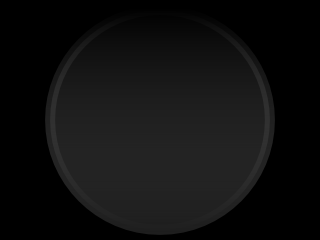
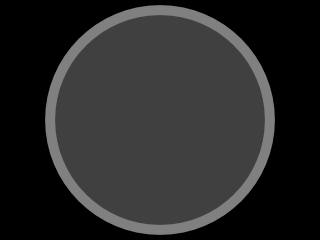
Lots o improvements from drive test. Fixed O2 sensors.

diff --git a/elmmonitor.py b/elmmonitor.py
@@ -53,7 +53,7 @@ class OBD_Capture():
     }
     o2pids = [ _O2B1S1, _O2B1S2, _O2B2S1, _O2B2S2, ]
 
-    scanpids = [ _MAP, _RPM, _SPEED, _TIMING, _IAT, _MAF,  _TPS ]
+    scanpids = [  _SPEED, _RPM, _IAT, _COOLTEMP, _LOAD, _TIMING,  _MAF, _MAP, _TPS ]
 
     def __init__(self):
         self.port = None
@@ -71,7 +71,7 @@ class OBD_Capture():
 
     def connect(self):
         #self.port = obd_io.OBDPort('/dev/pts/{0}'.format(portnumber), None, 2, 2)
-        portnames = ['/dev/obd0', '/dev/obd1', '/dev/pts/2', '/dev/pts/3', '/dev/pts/1', '/dev/pts/9']
+        portnames = ['/dev/obd0', '/dev/obd1', '/dev/pts/2', '/dev/pts/3', '/dev/pts/4', '/dev/pts/1', '/dev/pts/9']
 
 
         for port in portnames:
@@ -91,24 +91,6 @@ class OBD_Capture():
     def is_connected(self):
         return self.port
 
-
-
-    def o2scan(self):
-        outputs = ['', '']
-
-        try:
-            for pid in enumerate(self.o2pids):
-                (name, self.o2vals[pid[0]], unit) = self.port.sensor(pid[1])
-
-            outputs[0] = "1 S1:{0:.1f} S2:{1:.1f}".format(self.o2vals[0], self.o2vals[1])
-            outputs[1] = "2 S1:{0:.1f} S2:{1:.1f}".format(self.o2vals[2], self.o2vals[3])
-
-            time.sleep(0.1)
-            self.renderoutput(outputs, self.lcd._YELLOW)
-
-        except:
-            print "Error in o2scan.."
-            raise
 
     def milage(self):
         outputs = ['', '']
@@ -212,6 +194,9 @@ class OBD_Capture():
             raise
 
 class Gauges(object):
+    UPEVENT = 1
+    DOWNEVENT = 2
+
     def __init__(self, obd, adxl):
         self.obd = obd
         self.adxl345 = adxl
@@ -226,6 +211,7 @@ class Gauges(object):
         self._hugger = (245, 124, 51)
 
         self.face = pygame.image.load('gauges/bg.png')
+        self.scanpidindex = 0
 
     def gtoc(self, gpoint):
         return ( int(  (gpoint[0]/2.0)*100  )+160, int(  (gpoint[1]/2.0)*100  )+120 )
@@ -233,12 +219,12 @@ class Gauges(object):
     def o2toc(self, voltage):
         return int( ( 1.275 - voltage ) * (240/1.275) )
 
-    def o2graph(self):
+    def o2graph(self, event=None):
         (name, value1, unit) = self.obd.port.sensor(self.obd._O2B1S1)
         (name, value2, unit) = self.obd.port.sensor(self.obd._O2B1S2)
 
-        self.o2b1s1list.append(self.o2toc(value1))
-        self.o2b1s2list.append(self.o2toc(value2))
+        self.o2b1s1list.append(self.o2toc(value1[0]))
+        self.o2b1s2list.append(self.o2toc(value2[0]))
 
         background = pygame.Surface(screen.get_size())
         background = background.convert()
@@ -253,7 +239,7 @@ class Gauges(object):
         pygame.display.flip()
 
 
-    def gmeter(self):
+    def gmeter(self, event=None):
         outputs = ['','']
         axes = self.adxl345.getAxes(True)
         y = axes['z']
@@ -272,8 +258,14 @@ class Gauges(object):
         background = background.convert()
         background.fill((0,0,0))
 
-        pygame.draw.circle(background, (255,255,255), (160,120), 50, 1)
-        pygame.draw.circle(background, (128,128,128), (160,120), 100, 1)
+        pygame.draw.circle(background, (255,255,255), (160,120), 50, 3)
+        pygame.draw.circle(background, (128,128,128), (160,120), 12, 1)
+        pygame.draw.circle(background, (128,128,128), (160,120), 25, 1)
+        pygame.draw.circle(background, (128,128,128), (160,120), 38, 1)
+        pygame.draw.circle(background, (64,64,64), (160,120), 62, 1)
+        pygame.draw.circle(background, (64,64,64), (160,120), 75, 1)
+        pygame.draw.circle(background, (64,64,64), (160,120), 88, 1)
+        pygame.draw.circle(background, self._hugger, (160,120), 100, 2)
 
         pygame.draw.circle(background, (255,255,0), (int(self.gs['minx']/2.0*100)+160, 120), 3)
         pygame.draw.circle(background, (255,255,0), (int(self.gs['maxx']/2.0*100)+160, 120), 3)
@@ -302,8 +294,18 @@ class Gauges(object):
 
         time.sleep(0.2)
 
-    def biggauge(self):
-        (name, value, unit) = self.obd.port.sensor(self.obd.scanpids[1])
+    def biggauge(self, event=None):
+        if event == self.UPEVENT:
+            self.scanpidindex += 1
+        if event == self.DOWNEVENT:
+            self.scanpidindex -= 1
+
+        if self.scanpidindex >= len(self.obd.scanpids):
+            self.scanpidindex = 0
+        if self.scanpidindex < 0:
+            self.scanpidindex = len(self.obd.scanpids)-1
+
+        (name, value, unit) = self.obd.port.sensor(self.obd.scanpids[self.scanpidindex])
 
         background = pygame.Surface(screen.get_size())
         background = background.convert()
@@ -319,7 +321,11 @@ class Gauges(object):
 
         background.blit(speed, speedrect)
 
-        svalue = font.render("{0} {1}".format(str(value), unit), 1, (255,255,255) )
+        if value == "NODATA":
+            svalue = font.render("NO DATA", 1, (255,255,255) )
+        else:
+            svalue = font.render("{0:.0f} {1}".format(value, unit), 1, (255,255,255) )
+
         svaluerect = svalue.get_rect()
         svaluerect.centerx = screen.get_rect().centerx
         svaluerect.centery = 150
@@ -332,7 +338,7 @@ class Gauges(object):
 
         time.sleep(0.1)
 
-    def maindisplay(self):
+    def maindisplay(self, event=None):
         vals = self.obd.capture_data()
 
         self.renderpygame(vals)
@@ -349,10 +355,10 @@ class Gauges(object):
         background.blit( self._rendertext("Tach", str(data['rpm']), "RPM", (255,102,0) if data['rpm'] > 5000 else (255,255,255)), (160,0) )
         background.blit( self._rendertext("Coolant", str(data['coolant']), "C", (255,255,255)), (10,48) )
         background.blit( self._rendertext("Intake Air Temp", str(data['intakeair']), "C", (255,255,255)), (160,48) )
-        background.blit( self._rendertext("STFT Bank1", str(data['stft1']), "%", (255,255,255)), (10,96) )
-        background.blit( self._rendertext("STFT Bank2", str(data['stft2']), "%", (255,255,255)), (160,96) )
-        background.blit( self._rendertext("LTFT Bank1", str(data['ltft1']), "%", (255,255,255)), (10,144) )
-        background.blit( self._rendertext("LTFT Bank2", str(data['ltft2']), "%", (255,255,255)), (160,144) )
+        background.blit( self._rendertext("STFT Bank1", "{:.1f}".format(data['stft1']), "%", (255,255,255)), (10,96) )
+        background.blit( self._rendertext("STFT Bank2", "{:.1f}".format(data['stft2']), "%", (255,255,255)), (160,96) )
+        background.blit( self._rendertext("LTFT Bank1", "{:.1f}".format(data['ltft1']), "%", (255,255,255)), (10,144) )
+        background.blit( self._rendertext("LTFT Bank2", "{:.1f}".format(data['ltft2']), "%", (255,255,255)), (160,144) )
         background.blit( self._rendertext("Timing", str(data['timing']), "%", (255,255,255)), (10,192) )
         background.blit( self._rendertext("Throttle Pos", self._floatText(data['tps']), "%", (255,255,255)), (160,192) )
 
@@ -360,14 +366,14 @@ class Gauges(object):
 
         pygame.display.flip()
 
-    def dragTime(self):
+    def dragTime(self, event):
         outputs = ['', '']
 
         try:
             (name, value, unit) = self.obd.port.sensor(self.obd._SPEED)
             if value == 0:
                 self.startTime = time.time()
-                outputs[0] = "Ready for timing"
+                outputs[0] = "Ready!"
             if value > 0 and value < 96 and self.startTime > 0:
                 outputs[0]="ET: {0:.1f}s".format(time.time() - self.startTime, value)
 
@@ -385,9 +391,9 @@ class Gauges(object):
             background.fill((0,0,0))
 
 
-            background.blit( self._rendertext(name.strip(), str(value), unit, (255,255,255)), (10,0) )
-            background.blit( self._rendertext("Message", outputs[0], "", (255,255,255)), (10,48) )
-            background.blit( self._rendertext("Last ET", outputs[1], "S", (255,255,255)), (160,48) )
+            background.blit( self._rendertext(name.strip(), str(value), unit, (255,255,255)), (10,48) )
+            background.blit( self._rendertext("Message", outputs[0], "", (255,255,255)), (10,96) )
+            background.blit( self._rendertext("Last ET", outputs[1], "S", (255,255,255)), (160,96) )
 
             screen.blit(background, (0, 0))
             pygame.display.flip()
@@ -472,14 +478,20 @@ if __name__ == "__main__":
 
     try:
         while True:
+            gaugeevent = None
 
             for event in pygame.event.get():
                 if event.type == pygame.MOUSEBUTTONDOWN:
                     print event.pos
-                    if event.pos[0] < 160:
+                    if event.pos[0] < 110:
                         curdisplay -= 1
-                    else:
+                    elif event.pos[0] > 210:
                         curdisplay += 1
+                    else:
+                        if event.pos[1] < 160:
+                            gaugeevent = Gauges.UPEVENT
+                        else:
+                            gaugeevent = Gauges.DOWNEVENT
 
                     if event.type == pygame.QUIT:
                         done = True
@@ -488,7 +500,7 @@ if __name__ == "__main__":
                 if curdisplay >= len(displays): curdisplay = 0
                 if curdisplay < 0 : curdisplay = len(displays)-1
 
-            displays[curdisplay]()
+            displays[curdisplay](event=gaugeevent)
 
     except KeyboardInterrupt:
         print "Bye.. "

diff --git a/obd_sensors.py b/obd_sensors.py
@@ -68,8 +68,23 @@ def cpass(code):
 
 def fuel_trim_percent(code):
     code = hex_to_int(code)
-    #return (code - 128.0) * 100.0 / 128
-    return code / 200.0
+
+    return (code - 128.0) * 100.0 / 128
+
+
+def oxygen_sensor(code):
+    if len(code) < 3:
+        code = "{0}0000".format(code)
+
+    volt = code[0:2]
+    trim = code[2:4]
+
+    vcode = hex_to_int(volt)
+    tcode = hex_to_int(trim)
+
+    rval = ( vcode / 200.0, (tcode - 128.0) * 100.0 / 128 )
+
+    return ( vcode / 200.0, (tcode - 128.0) * 100.0 / 128 )
 
 def dtc_decrypt(code):
     #first byte is byte after PID and without spaces
@@ -155,14 +170,14 @@ SENSORS = [
     Sensor("throttle_pos"          , "       Throttle Position", "01111", throttle_pos     ,"%"      ),
     Sensor("secondary_air_status"  , "    Secondary Air Status", "0112", cpass            ,""       ),
     Sensor("o2_sensor_positions"   , "  Location of O2 sensors", "0113", cpass            ,""       ),
-    Sensor("o211"                  , "        O2 Sensor: 1 - 1", "0114", fuel_trim_percent,"%"      ),
-    Sensor("o212"                  , "        O2 Sensor: 1 - 2", "0115", fuel_trim_percent,"%"      ),
-    Sensor("o213"                  , "        O2 Sensor: 1 - 3", "0116", fuel_trim_percent,"%"      ),
-    Sensor("o214"                  , "        O2 Sensor: 1 - 4", "0117", fuel_trim_percent,"%"      ),
-    Sensor("o221"                  , "        O2 Sensor: 2 - 1", "0118", fuel_trim_percent,"%"      ),
-    Sensor("o222"                  , "        O2 Sensor: 2 - 2", "0119", fuel_trim_percent,"%"      ),
-    Sensor("o223"                  , "        O2 Sensor: 2 - 3", "011A", fuel_trim_percent,"%"      ),
-    Sensor("o224"                  , "        O2 Sensor: 2 - 4", "011B", fuel_trim_percent,"%"      ),
+    Sensor("o211"                  , "        O2 Sensor: 1 - 1", "0114", oxygen_sensor    ,"%"      ),
+    Sensor("o212"                  , "        O2 Sensor: 1 - 2", "0115", oxygen_sensor    ,"%"      ),
+    Sensor("o213"                  , "        O2 Sensor: 1 - 3", "0116", oxygen_sensor    ,"%"      ),
+    Sensor("o214"                  , "        O2 Sensor: 1 - 4", "0117", oxygen_sensor    ,"%"      ),
+    Sensor("o221"                  , "        O2 Sensor: 2 - 1", "0118", oxygen_sensor    ,"%"      ),
+    Sensor("o222"                  , "        O2 Sensor: 2 - 2", "0119", oxygen_sensor    ,"%"      ),
+    Sensor("o223"                  , "        O2 Sensor: 2 - 3", "011A", oxygen_sensor    ,"%"      ),
+    Sensor("o224"                  , "        O2 Sensor: 2 - 4", "011B", oxygen_sensor    ,"%"      ),
     Sensor("obd_standard"          , "         OBD Designation", "011C", cpass            ,""       ),
     Sensor("o2_sensor_position_b"  ,"  Location of O2 sensors" , "011D", cpass            ,""       ),
     Sensor("aux_input"             , "        Aux input status", "011E", cpass            ,""       ),
